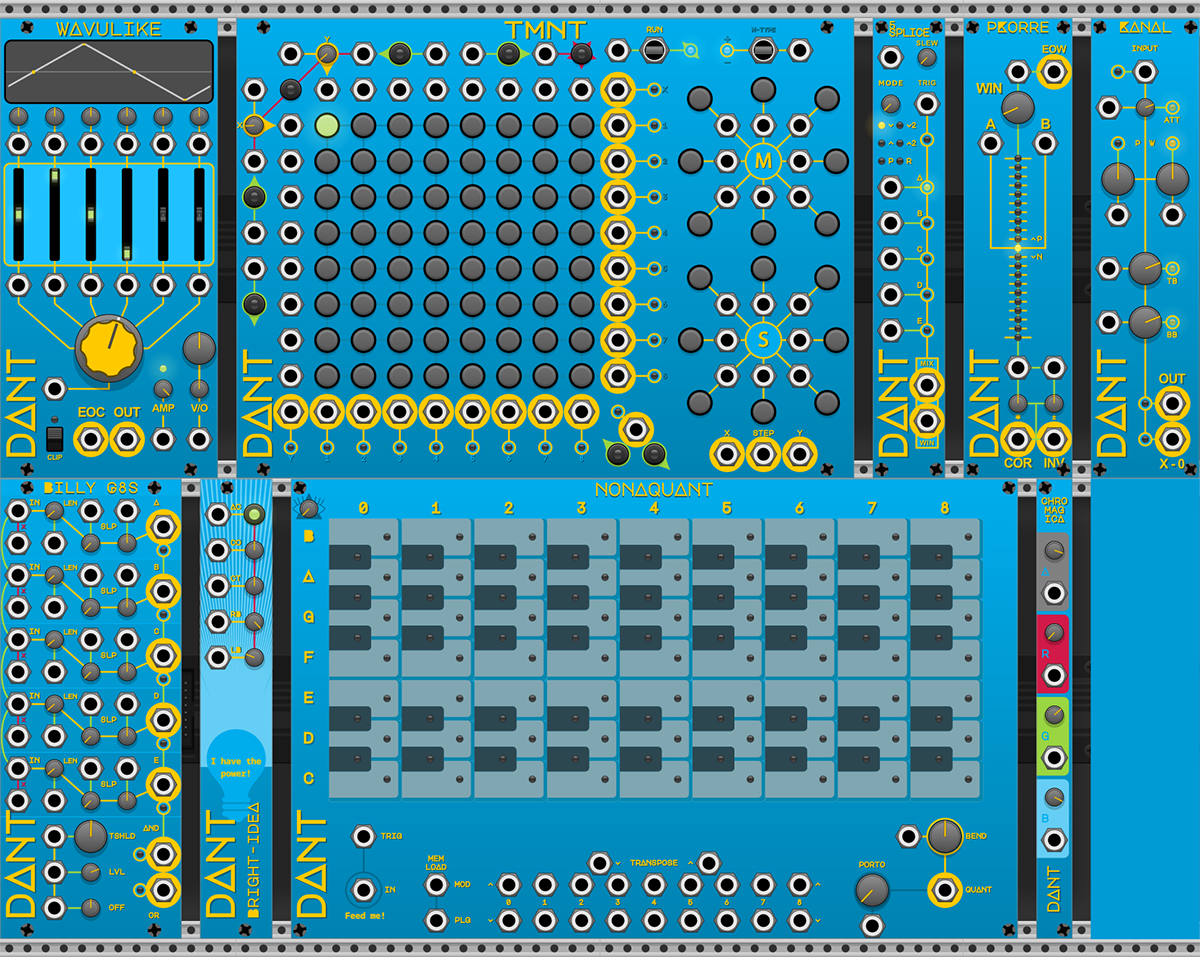
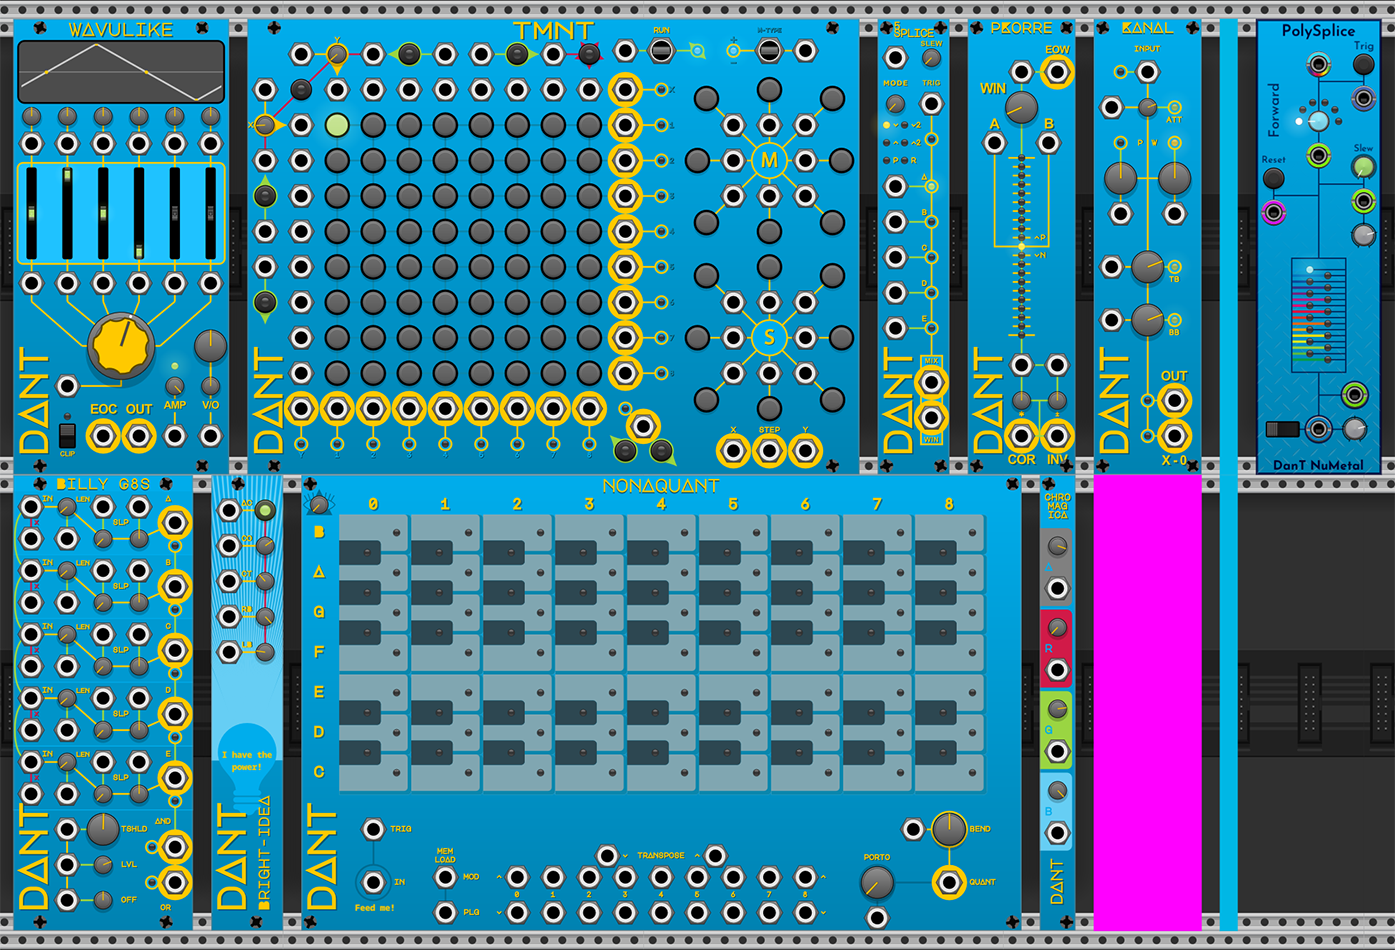
Docs update for v2.4, introduces Nu Metal

diff --git a/nu-metal.md b/nu-metal.md
@@ -1,0 +1,83 @@
+# DanTModules v2.4.0 - Nu Metal modules
+
+* [Common Controls & Concepts](#common-controls--concepts)
+* [PolySplice](#polysplice)
+
+## Common Controls & Concepts
+
+### Plugin settings
+
+![Common NuMetal menu](img/numetal-menu.png)
+
+Nu Metal modules have their own plugin settings, which are saved to the file `DanTNuMetal.json`.
+
+* `Port Type Colours` will toggle the port type colours
+  * inputs are slightly brighter than outputs
+  * multi purpose ports match the panel colour
+  * red = audio
+  * yellow = volt per octave
+  * magenta = reset
+  * aqua = clock
+  * blue = trigger
+  * dark blue = gate
+  * green = modulation
+  * rainbow = polyphonic
+* `Coloured Knobs` will toggle knob type colours
+  * DanT blue = generic knobs
+  * green = uni or bi polar knobs
+  * grey = attenuvertor knobs
+* `Knob Displays` will toggle the knob value and CV display
+  * unipolar knobs have a green value arc and a yellow CV arc (if CV control is offered)
+  * bipolar knobs have a positive green and negative red arc, with a yellow CV arc (if CV control is offered)
+  * attenuvertor knobs have a dark arc with notches for values of `-2`, `-1`, `0`, `1`, `2` (where offered)
+* `Displays Lit` will toggle the knob display being full brightness
+* `Light Panel Text` will toggle between dark and light panel elements
+* `Panel Colour` allows you to set a custom colour for the panels
+* `Reset Appearance` resets all the above settings to their default values
+
+## PolySplice
+
+**7hp**
+
+PolySplice is a polyphonic version of the original [5Splice](5splice.md) module, a "window mixer" with up to 16 inputs, 6 different modes, an internal slew, a window signal output and polyphonic output modes.
+
+![NuMetal-PolySplice](img/polysplice.png)
+
+### Controls
+
+From top-left to bottom-right:
+
+* Polyphonic input
+* Trigger button
+* Trigger input
+* Mode knob
+* Mode CV input
+* Slew knob
+* Reset button
+* Slew CV input
+* Reset trigger input
+* Slew CV attenuvertor
+* Channel LEDs
+* Window output
+* Polyphonic mode switch
+* Signal output
+* Output attenuvertor
+
+### Basic operation
+
+* You need at minimum two channels to get useful outputs.
+* Each channel with a signal is represented by one of the LEDs, the LEDs for channels without a signal will be off. The selected channel LED will be lit brightly.
+* On each trigger a new channel will be selected to be the output based upon the current mode:
+  * **Forwards**
+  * **Forwards by 2**
+  * **Backwards**
+  * **Backwards by 2**
+  * **Ping-Pong**
+  * **Random**
+* When the selected channel is changed, the slew will be applied between the previous and next channel values.
+* On any reset trigger, channel `1` will be selected and any current slew will be interrupted.
+* The window output will be `0.5 volts` per channel, e.g. if channel `3` is selected, the window output will be `1.5 volts`, if channel `16` is selected, the window output will be `8 volts`.
+* The output will be the selected channels value affected by the output attenuvertor.
+* There are two extra polyphonic modes:
+  * `Inputs incremental` the number of channels output will match the number of input channels. Channel `1` will be the selected channel, subsequent channels will have the value of the next channel, and wrap back to channel `1`.
+  * `All normalled` all 16 channels will output the currently selected channel value affected by the output attenuvertor.

diff --git a/README.md b/README.md
@@ -1,6 +1,7 @@
-# DanTModules v2.3.6
+# DanTModules v2.4.0
 
 * [Overview](#overview)
+* [Nu Metal](#nu-metal)
 * [Common Controls & Concepts](#common-controls--concepts)
   * [Global Plugin Settings](#global-plugin-settings)
   * [Themes](#themes)
@@ -22,6 +23,12 @@ I develop this plugin in my spare time, unfortunately this means that this manua
 I would love to see anything you create with this plugin, tag your creations with `#dantmodules` & the name of the modules used. On Instagram you can also directly tag me [@dant.synth](https://www.instagram.com/dant.synth/)
 
 If you feel generous or want to motivate me to further develop this plugin, you may [donate here](https://monzo.me/danieltilley2).
+
+## Nu Metal
+
+As of DanTModules `v2.4.0` there will be a new design philosophy implemented, based upon the experience and lessons learned from the original 10 modules of the plugin.
+
+This new philosophy and modules will be called `NuMetal` and they are documented separately [NuMetal-Modules](numetal-modules.md)
 
 ## Common Controls & Concepts
 
